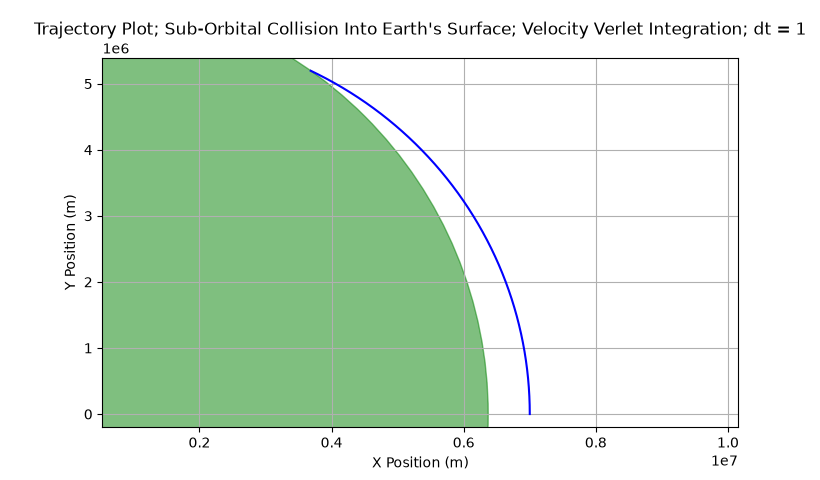
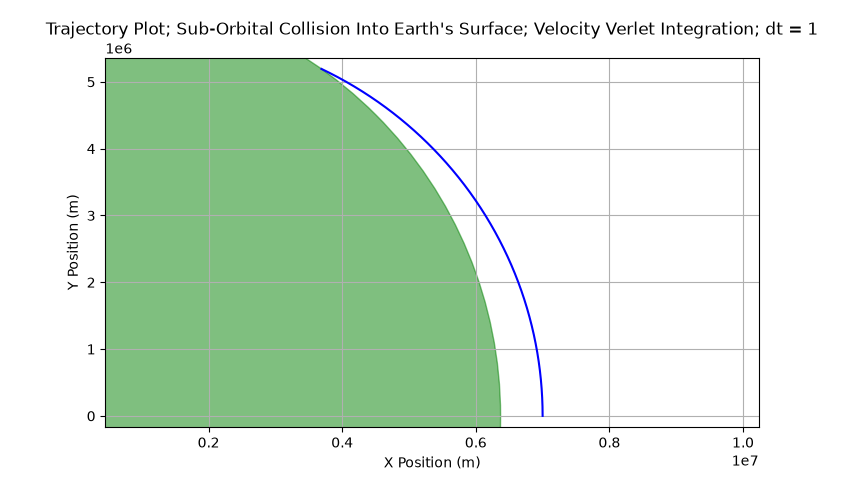
Use refined collision handling in impact scenario

diff --git a/main.py b/main.py
@@ -110,8 +110,8 @@ if __name__ == "__main__":
     states = simulate(r, 0, 0, (0.9 * vc), 1, 10000, velocity_verlet_step, has_collision_with_earth, estimate_earth_impact_time)
     positions = positions_from_states(states)
     plot_trajectory(1, positions, "Trajectory Plot; Sub-Orbital Collision Into Earth's Surface; Velocity Verlet Integration")
-    collision_time = (len(states) - 1)
+    collision_step_index = (len(states) - 1)
     x, y = positions[-1]
     alt = altitude(x, y)
-    plot_table_data = [["Collision time", collision_time], ["Altitude", alt]]
+    plot_table_data = [["Collision step index", collision_step_index], ["Altitude", alt]]
     plot_table(["Key", "Value"], plot_table_data, "Sub-Orbital Collision Data")
